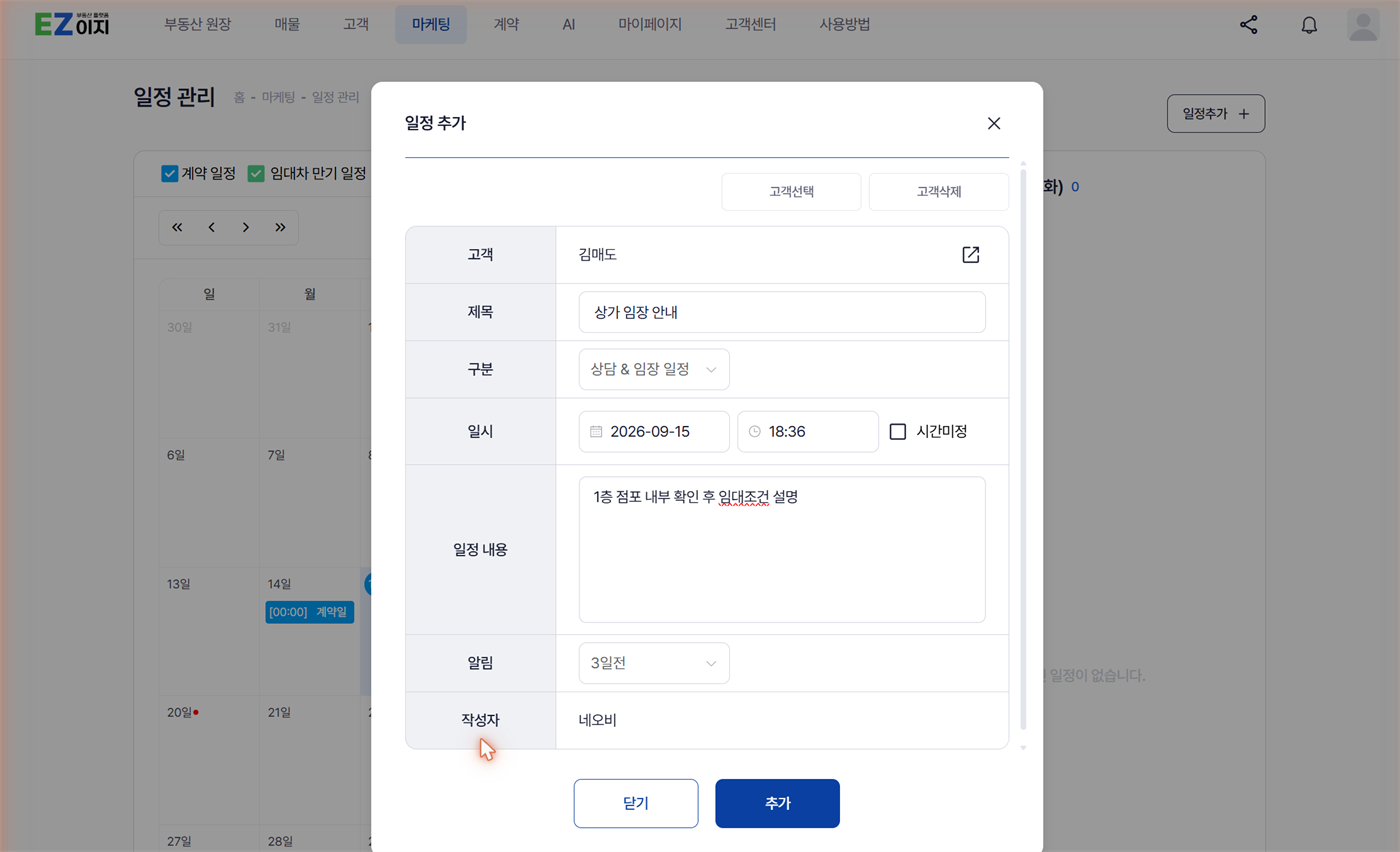
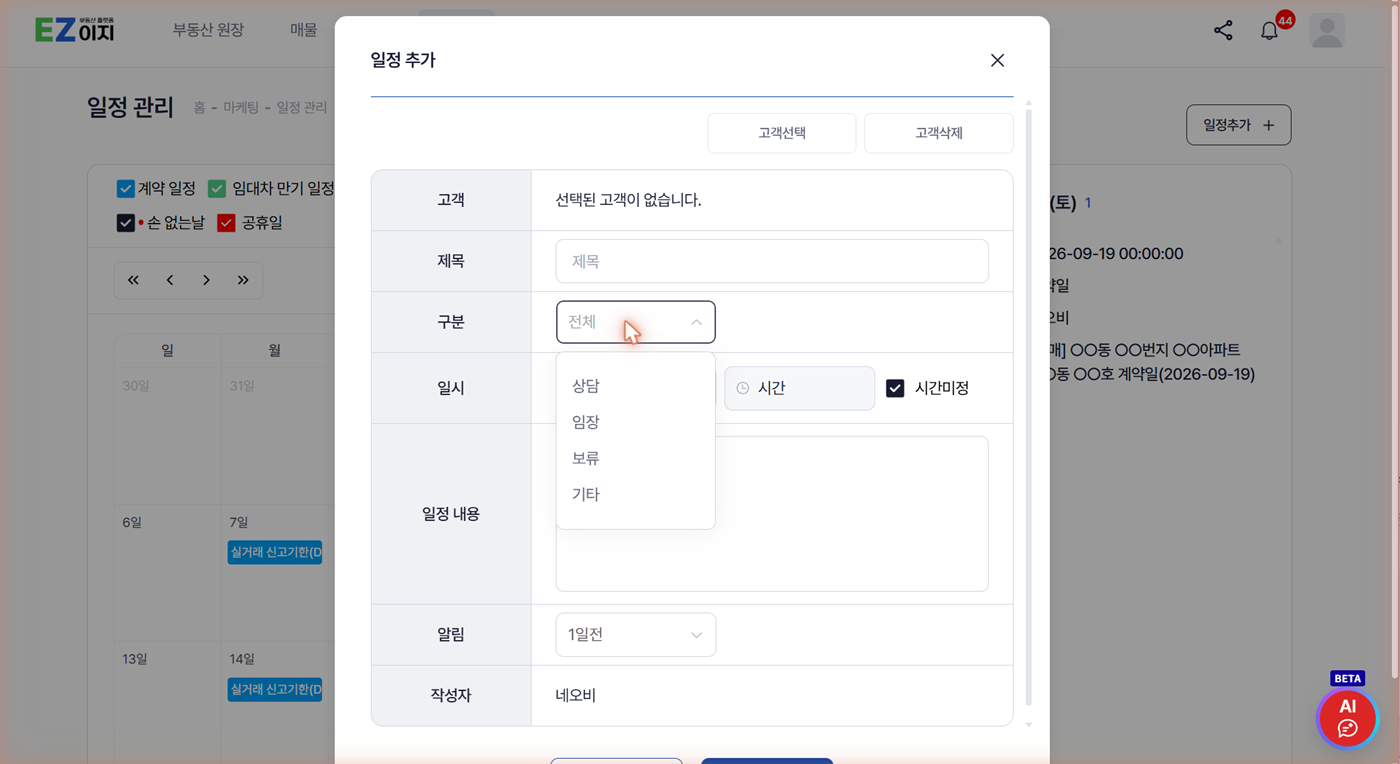
일정 구분이 상담·임장·보류 셋으로 나뉜 것을 반영했습니다
9/23 배포로 「상담 & 임장 일정」 하나였던 구분이 셋으로 갈라졌습니다.
달력 색 표, 일정 추가 화면의 구분, 알림 유형을 모두 고쳤습니다.

스크린샷 두 장은 체크박스가 7개였고 상단 메뉴도 「사용방법」이라
다시 찍었습니다. 개인정보는 촬영 전에 가렸습니다.

diff --git a/docs/howto/calendar.md b/docs/howto/calendar.md
@@ -28,11 +28,20 @@
 | --- | --- | --- |
 | 계약 일정 | 파란색 | 계약에서 **자동** |
 | 임대차 만기 일정 | 녹색 | 원장 점유 상태에서 **자동** |
-| 상담/임장 일정 | 핑크색 | 내가 직접 넣습니다 |
+| 상담 일정 | 진분홍색 | 내가 직접 넣습니다 |
+| 임장 일정 | 주황색 | 내가 직접 넣습니다 |
+| 보류 일정 | 회색 | 내가 직접 넣습니다 |
 | 세무 일정 | 보라색 | 부가세 신고일 등이 **자동** |
 | 기타 일정 | 노란색 | 내가 직접 넣습니다 |
-| 손 없는 날 | 날짜 옆 빨간 점(•) | — |
+| 손 없는날 | 날짜 옆 빨간 점(•) | — |
 | 공휴일 | 빨간색 | — |
+
+::: tip 상담과 임장이 따로 갈라졌습니다 *(2026.09 변경)*
+전에는 **상담 & 임장 일정** 하나였습니다. 지금은 **상담 · 임장 · 보류** 셋으로 나뉘어
+색도 다르고, **켜고 끄는 체크박스도 따로** 있습니다.
+
+전에 넣어 둔 상담/임장 일정이 어느 쪽으로 들어갔는지는 달력에서 색으로 확인하세요.
+:::
 
 ::: tip 세무 일정은 자동으로 들어옵니다
 부가세 신고일 같은 세무 일정은 따로 넣지 않아도 달력에 올라옵니다.
@@ -52,7 +61,7 @@
 | --- | --- |
 | **고객선택** | 누구와의 약속인지. 잘못 골랐으면 **고객삭제** |
 | 제목 | |
-| **구분** | **상담 & 임장 일정 / 기타** |
+| **구분** | **상담 / 임장 / 보류 / 기타** &nbsp;*(2026.09 변경 — 전에는 `상담 & 임장 일정 / 기타`)* |
 | 일시 | 날짜와 시간. 시간을 모르면 **시간미정** 체크 |
 | 일정 내용 | |
 | **알림** | **1일전 / 3일전 / 7일전** |
@@ -87,7 +96,7 @@
 ![알림](/images/calendar-04.png)
 
 **알림 기간**(1주일 전·1개월 전·3개월 전·6개월 전·전체)과
-**알림 유형**(계약 · 임대차만기 · 세무 · 상담/임장일정 · 기타)으로 걸러 봅니다.
+**알림 유형**(계약 · 임대차만기 · 세무 · **상담 · 임장 · 보류** · 기타)으로 걸러 봅니다.
 
 읽은 것은 줄마다 **확인하기**를 누르거나, 위쪽 **모두 확인 표시**로 한 번에 정리합니다.
 

diff --git a/docs/howto/lease-expiry.md b/docs/howto/lease-expiry.md
@@ -125,7 +125,7 @@
 
 위쪽 체크박스로 보고 싶은 것만 켤 수 있습니다.
 
-> 계약 일정 · **임대차 만기 일정** · 상담/임장 일정 · 세무 일정 · 기타 일정 · **손 없는 날** · 공휴일
+> 계약 일정 · **임대차 만기 일정** · 상담 일정 · 임장 일정 · 보류 일정 · 세무 일정 · 기타 일정 · **손 없는날** · 공휴일
 
 일정을 누르면 상세 팝업이 뜨고, **해당 계약 바로가기**로 원래 계약서까지 한 번에 갑니다.
 
